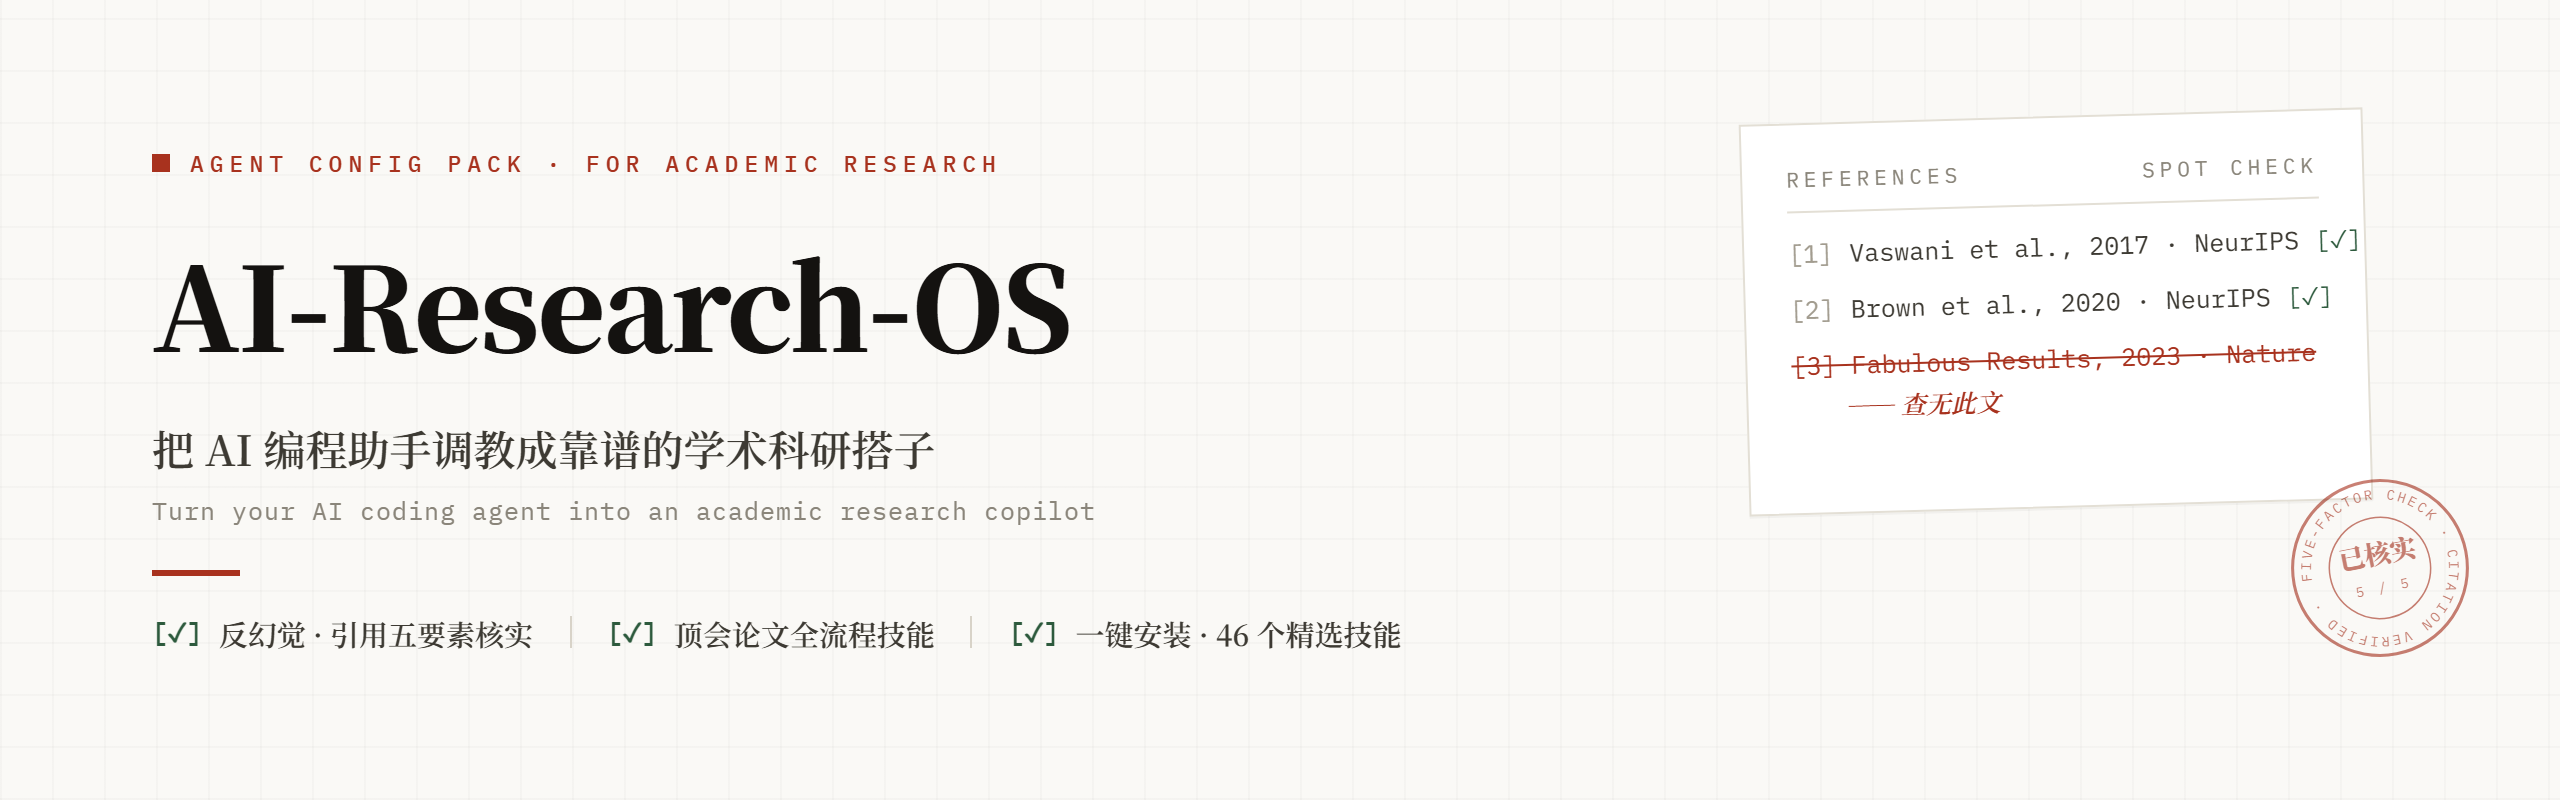
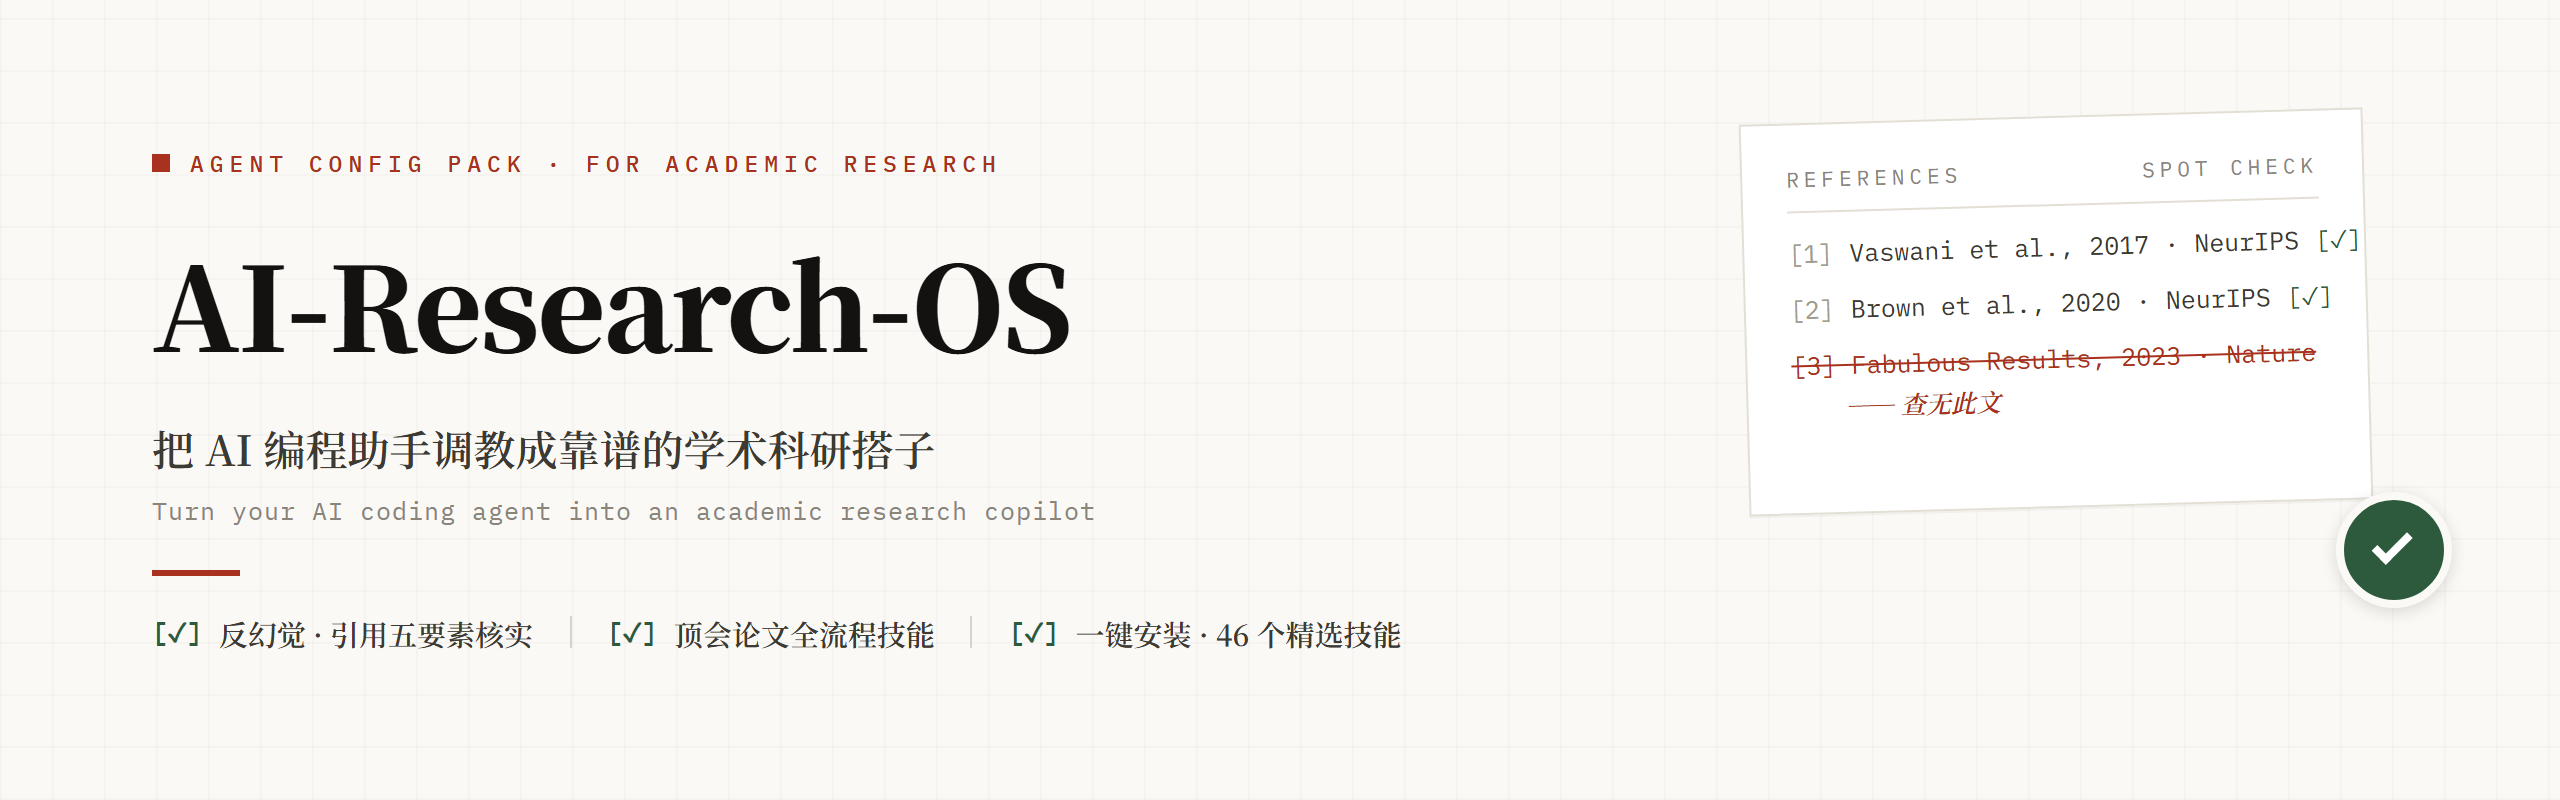
docs(figure): replace stamp with compact verified checkmark badge

diff --git a/docs/images/src/banner.html b/docs/images/src/banner.html
@@ -40,7 +40,8 @@
   .rbad { margin-top:12px; }
   .rbad .line { font-family:"IBM Plex Mono",monospace; font-size:12.5px; color:#A8321E; text-decoration:line-through; text-decoration-thickness:1px; white-space:nowrap; }
   .rbad .mark { font-size:12.5px; color:#A8321E; margin-top:4px; font-style:italic; font-weight:600; padding-left:26px; }
-  .stamp { position:absolute; right:44px; top:238px; width:92px; height:92px; transform:rotate(-11deg); mix-blend-mode:multiply; opacity:0.62; z-index:3; }
+  .vcheck { position:absolute; right:54px; top:246px; width:58px; height:58px; border-radius:50%; background:#2D5A3D; border:4px solid #FAF9F6; box-shadow:0 2px 8px rgba(26,24,21,0.14); display:flex; align-items:center; justify-content:center; z-index:3; }
+  .vcheck i { width:19px; height:10px; border-left:4px solid #fff; border-bottom:4px solid #fff; transform:rotate(-45deg) translate(1px,-3px); }
 </style>
 </head>
 <body>
@@ -68,14 +69,7 @@
       <div class="mark">—— 查无此文</div>
     </div>
   </div>
-  <svg class="stamp" viewBox="0 0 120 120">
-    <defs><path id="cir" d="M60,60 m-45,0 a45,45 0 1,1 90,0 a45,45 0 1,1 -90,0"/></defs>
-    <circle cx="60" cy="60" r="57" fill="none" stroke="#A8321E" stroke-width="2"/>
-    <circle cx="60" cy="60" r="33" fill="none" stroke="#A8321E" stroke-width="1"/>
-    <text font-family="IBM Plex Mono,monospace" font-size="9" letter-spacing="1.5" fill="#A8321E"><textPath href="#cir">FIVE-FACTOR CHECK · CITATION VERIFIED ·</textPath></text>
-    <text x="60" y="57" text-anchor="middle" font-family="'Noto Serif SC',serif" font-weight="900" font-size="17" fill="#A8321E">已核实</text>
-    <text x="60" y="76" text-anchor="middle" font-family="IBM Plex Mono,monospace" font-size="9" letter-spacing="2" fill="#A8321E">5 / 5</text>
-  </svg>
+  <div class="vcheck"><i></i></div>
 </div>
 </body>
 </html>
